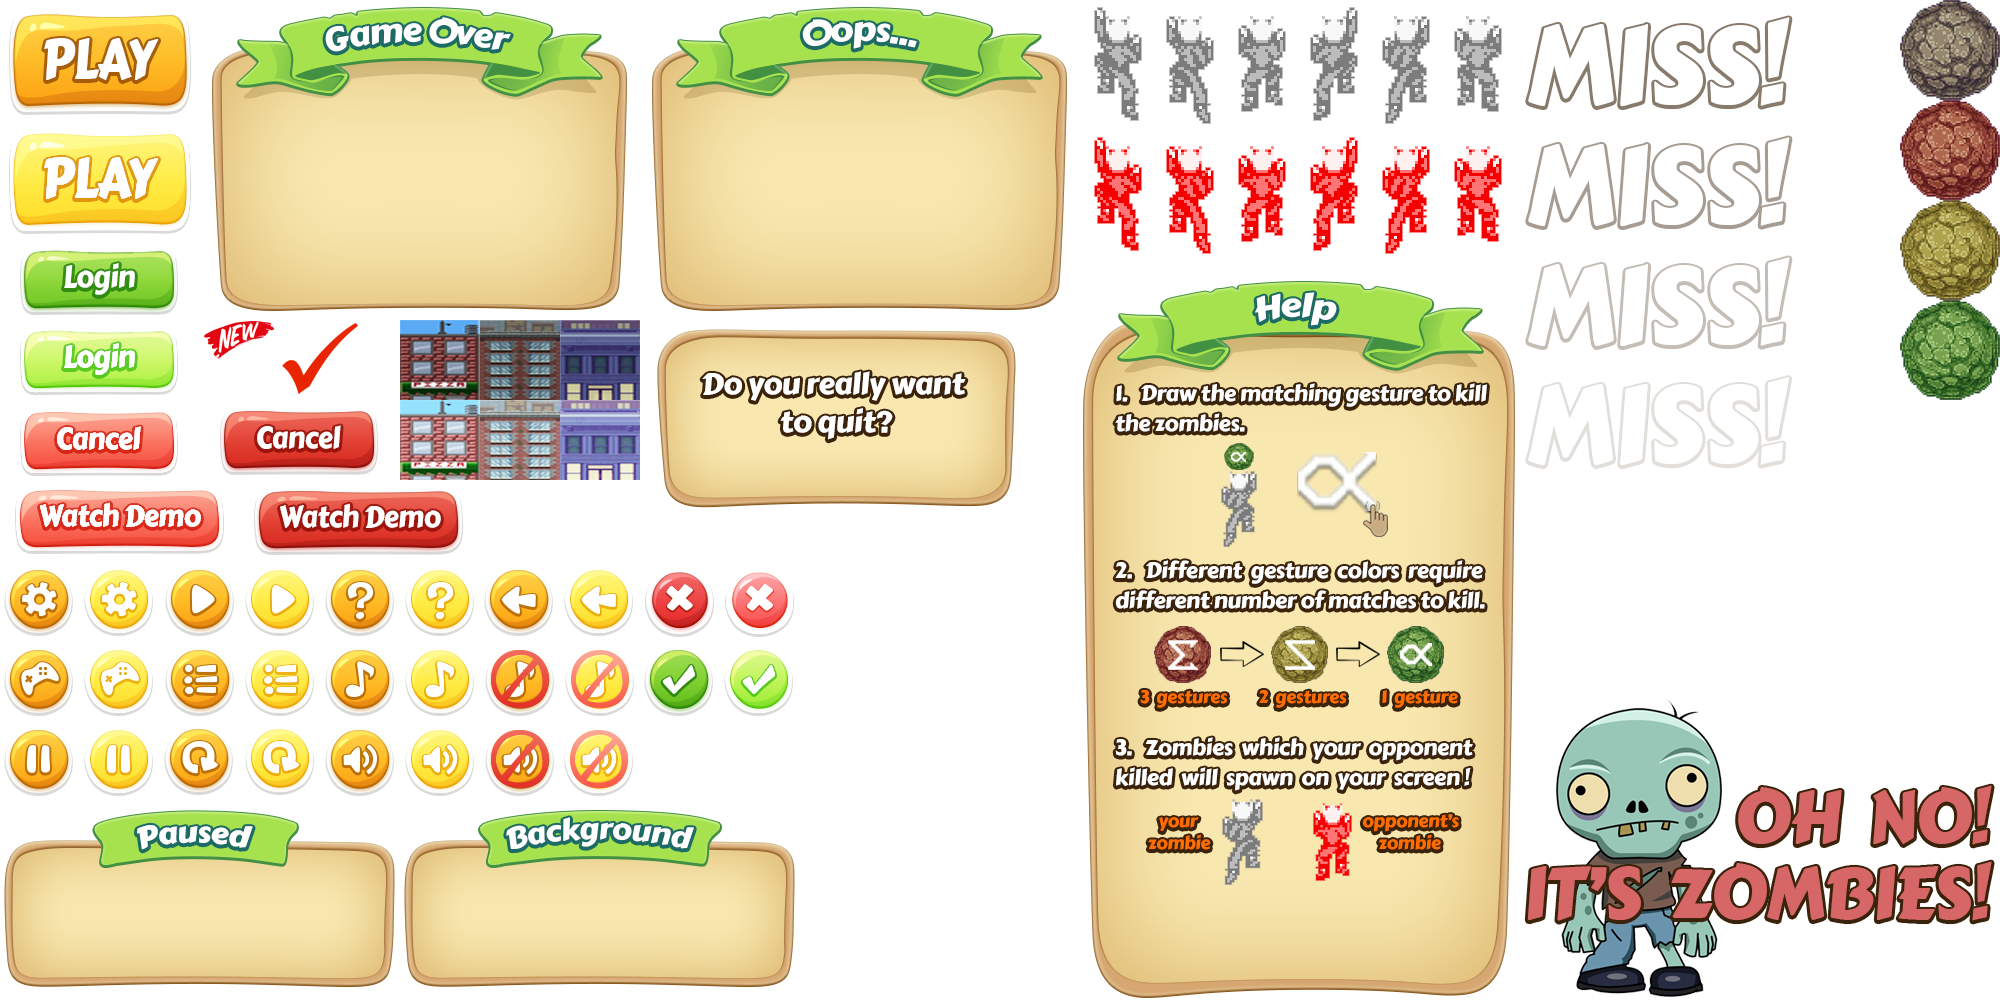
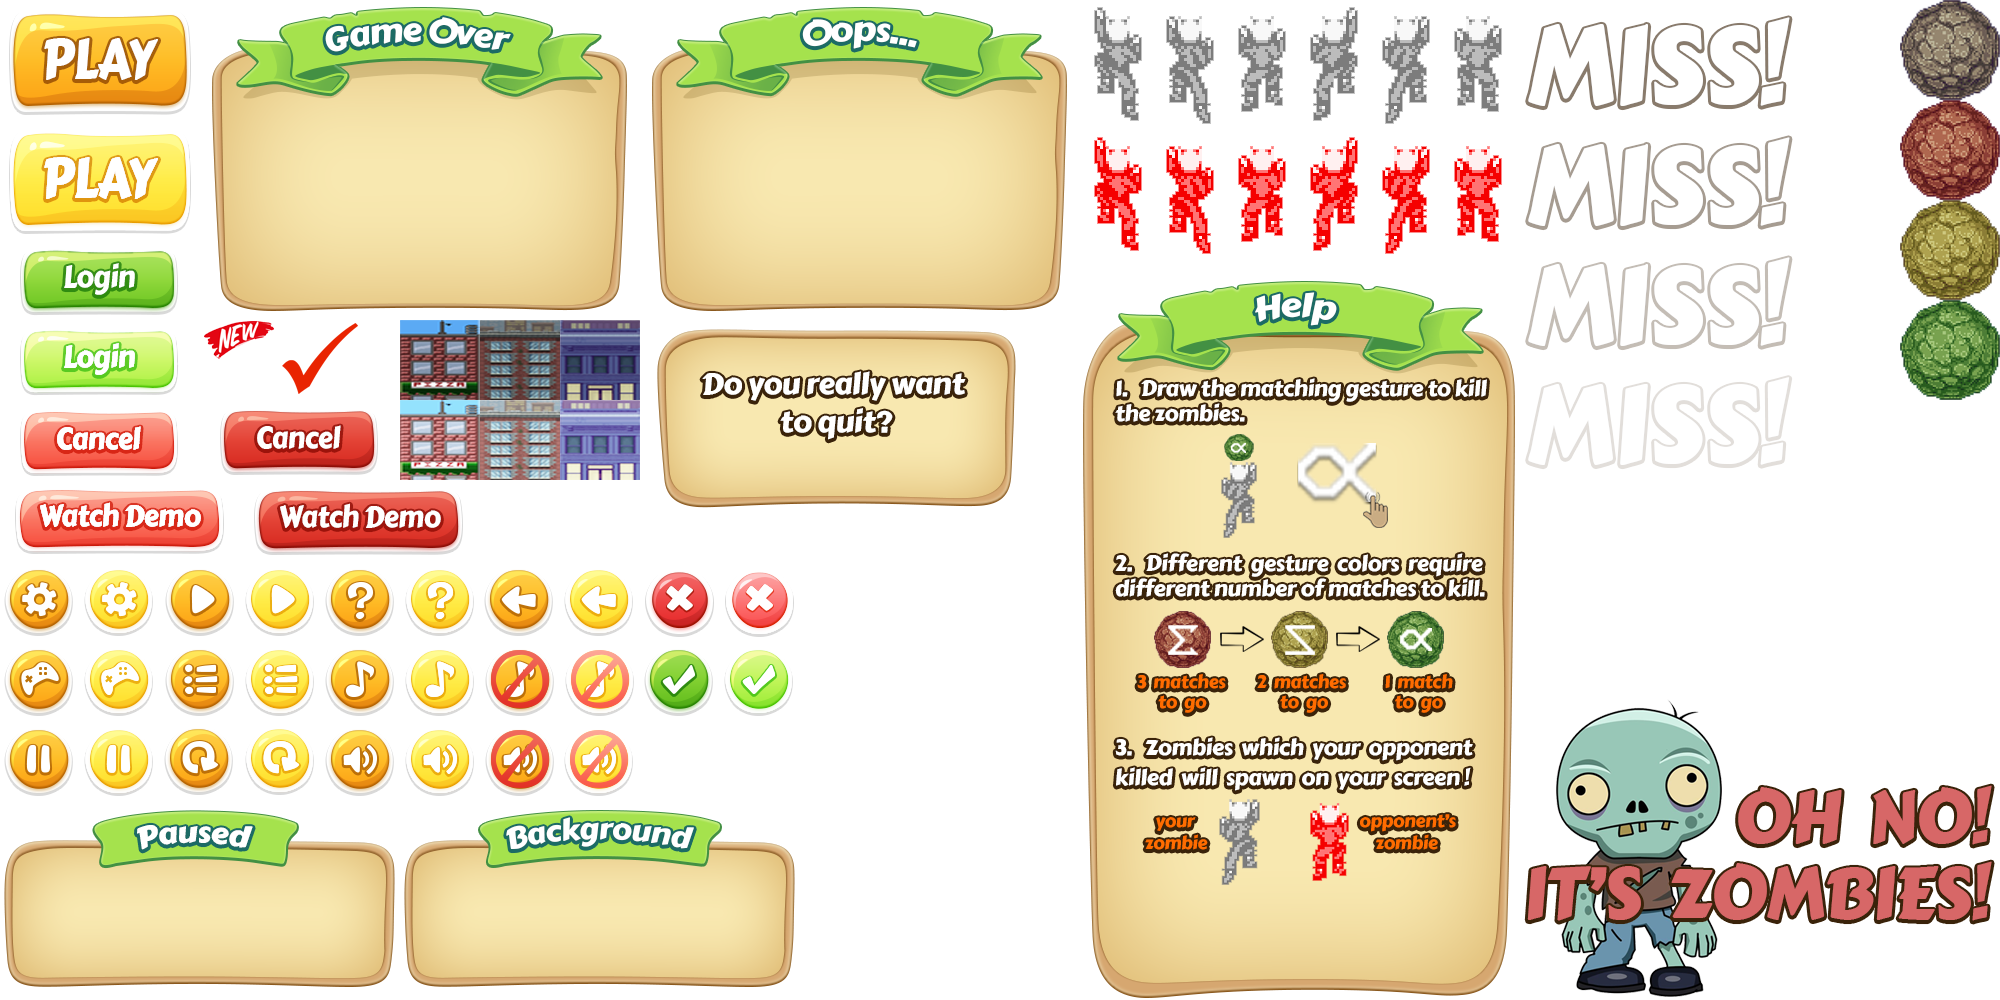
fix background options and update tutorial

Changed region(s): [[0.558, 0.372, 0.744, 0.713], [0.558, 0.806, 0.744, 0.899]]

diff --git a/core/src/com/oniz/Screens/StartScreen.java b/core/src/com/oniz/Screens/StartScreen.java
@@ -221,7 +221,7 @@ public class StartScreen implements LoginListener, Screen {
         background1Btn.addListener(new AdvancedClickListener() {
             @Override
             public void clicked(InputEvent event, float x, float y) {
-                zGame.getGameWorld().setBackgroundOption(GameWorld.BACKGROUND1);
+                AssetLoader.setBackgroundOption(AssetLoader.BACKGROUND1);
             }
         });
 
@@ -229,7 +229,7 @@ public class StartScreen implements LoginListener, Screen {
         background2Btn.addListener(new AdvancedClickListener() {
             @Override
             public void clicked(InputEvent event, float x, float y) {
-                zGame.getGameWorld().setBackgroundOption(GameWorld.BACKGROUND2);
+                AssetLoader.setBackgroundOption(AssetLoader.BACKGROUND2);
             }
         });
 
@@ -237,7 +237,7 @@ public class StartScreen implements LoginListener, Screen {
         background3Btn.addListener(new AdvancedClickListener() {
             @Override
             public void clicked(InputEvent event, float x, float y) {
-                zGame.getGameWorld().setBackgroundOption(GameWorld.BACKGROUND3);
+                AssetLoader.setBackgroundOption(AssetLoader.BACKGROUND3);
             }
         });
 
@@ -341,11 +341,11 @@ public class StartScreen implements LoginListener, Screen {
 
         batcher.begin();
         if (backgroundMenuToggle) {
-            if (zGame.getGameWorld().getBackgroundOption() == GameWorld.BACKGROUND1) {
+            if (AssetLoader.getBackgroundOption() == AssetLoader.BACKGROUND1) {
                 batcher.draw(checkMark, 75, 440, 40, 40);
-            } else if (zGame.getGameWorld().getBackgroundOption() == GameWorld.BACKGROUND2) {
+            } else if (AssetLoader.getBackgroundOption() == AssetLoader.BACKGROUND2) {
                 batcher.draw(checkMark, 175, 440, 40, 40);
-            } else if (zGame.getGameWorld().getBackgroundOption() == GameWorld.BACKGROUND3) {
+            } else if (AssetLoader.getBackgroundOption() == AssetLoader.BACKGROUND3) {
                 batcher.draw(checkMark, 275, 440, 40, 40);
             }
         }

diff --git a/core/src/com/oniz/Screens/MatchMakingScreen.java b/core/src/com/oniz/Screens/MatchMakingScreen.java
@@ -29,7 +29,7 @@ public class MatchMakingScreen implements Screen, PlayEventListener {
 
     private SimpleButton cancelBtn;
 
-    private float runTime;
+    private float runTime = 0;
     private TextureRegion background, backgroundTint;
     private BitmapFont menuFont;
     private Animation spinnerAnimation;
@@ -43,7 +43,7 @@ public class MatchMakingScreen implements Screen, PlayEventListener {
         this.zgame = zgame;
         this.stage = new Stage(new FitViewport(450, 800));
 
-        background = AssetLoader.getInstance().backgrounds[GameWorld.BACKGROUND1];
+        background = AssetLoader.getInstance().backgrounds[AssetLoader.getBackgroundOption()];
         backgroundTint = AssetLoader.getInstance().sprites.get("backgroundTint");
         menuFont = AssetLoader.getInstance().fonts.get("menuText");
         spinnerAnimation = AssetLoader.getInstance().spinnerAnimation;
@@ -69,10 +69,6 @@ public class MatchMakingScreen implements Screen, PlayEventListener {
 
     }
 
-    public void setBackground(int backgroundOption) {
-        this.background = AssetLoader.getInstance().backgrounds[backgroundOption];
-    }
-
     //cancel matchmaking process
     private void cancelMatchmaking() {
         zgame.playServices.leaveGame();
@@ -88,6 +84,9 @@ public class MatchMakingScreen implements Screen, PlayEventListener {
 
     @Override
     public void render(float delta) {
+        if (runTime == 0) {
+            background = AssetLoader.getInstance().backgrounds[AssetLoader.getBackgroundOption()];
+        }
         runTime += delta;
         Gdx.graphics.getGL20().glClearColor(0, 0, 0, 1);
         Gdx.graphics.getGL20().glClear(GL20.GL_COLOR_BUFFER_BIT | GL20.GL_DEPTH_BUFFER_BIT);
@@ -122,6 +121,7 @@ public class MatchMakingScreen implements Screen, PlayEventListener {
     @Override
     public void leftRoom() {
         Gdx.app.log("Left room", "Match making screen left room");
+        runTime = 0;
         zgame.switchScreen(ZGame.ScreenState.START);
     }
 

diff --git a/core/src/com/oniz/Game/GameWorld.java b/core/src/com/oniz/Game/GameWorld.java
@@ -18,9 +18,6 @@ import java.util.concurrent.atomic.AtomicBoolean;
  * It updates everything.
  */
 public class GameWorld implements PlayEventListener {
-    public static final int BACKGROUND1 = 0;
-    public static final int BACKGROUND2 = 1;
-    public static final int BACKGROUND3 = 2;
 
     public static final int GAME_READY = 0;
     public static final int GAME_RUNNING = 1;
@@ -32,7 +29,6 @@ public class GameWorld implements PlayEventListener {
     static final int[] zombiePaths = {40, 78, 115, 153, 190, 228, 265, 303, 340};
     private int state;
     private int score = 0;
-    private int backgroundOption = BACKGROUND1;
 
     GameRenderer gameRenderer;
     Random random = new Random();
@@ -226,6 +222,7 @@ public class GameWorld implements PlayEventListener {
         childZombies.clear();
         score = 0;
         state = GAME_RUNNING;
+        gameRenderer.setBackground(AssetLoader.getBackgroundOption());
         this.isMultiPlayerQuitted = false;
         gameRenderer.prepareTransition(0, 0, 0, 1f);
     }
@@ -275,16 +272,6 @@ public class GameWorld implements PlayEventListener {
 
     public int getScore() {
         return score;
-    }
-
-    public int getBackgroundOption() {
-        return backgroundOption;
-    }
-
-    public void setBackgroundOption(int backgroundOption) {
-        this.backgroundOption = backgroundOption;
-        gameRenderer.setBackground(backgroundOption);
-        zgame.getMatchMakingScreen().setBackground(backgroundOption);
     }
 
     public void realTimeUpdate(String msg) {

diff --git a/core/src/com/oniz/Game/AssetLoader.java b/core/src/com/oniz/Game/AssetLoader.java
@@ -56,6 +56,9 @@ public final class AssetLoader {
     public Hashtable<String, FileHandle> gesturesList;
     public ProtractorGestureRecognizer protractorGestureRecognizer;
 
+    public static final int BACKGROUND1 = 0;
+    public static final int BACKGROUND2 = 1;
+    public static final int BACKGROUND3 = 2;
 
     public static AssetLoader getInstance() {
         if (instance == null) {
@@ -173,9 +176,14 @@ public final class AssetLoader {
 
     public void load() {
         loadGestureJSON();
+
         // store high score
         if (!prefs.contains("highScore")) {
             prefs.putInteger("highScore", 0);
+        }
+        // store background option
+        if (!prefs.contains("backgroundOption")) {
+            prefs.putInteger("backgroundOption", 0);
         }
 
         // splash screen logo
@@ -422,6 +430,15 @@ public final class AssetLoader {
     // Retrieves the current high score
     public static int getHighScore() {
         return prefs.getInteger("highScore");
+    }
+
+    public static void setBackgroundOption(int option) {
+        prefs.putInteger("backgroundOption", option);
+        prefs.flush();
+    }
+
+    public static int getBackgroundOption() {
+        return prefs.getInteger("backgroundOption");
     }
 
     public void dispose() {

diff --git a/core/src/com/oniz/Game/GameRenderer.java b/core/src/com/oniz/Game/GameRenderer.java
@@ -128,7 +128,7 @@ public class GameRenderer {
     }
 
     private void initAssets() {
-        background = AssetLoader.getInstance().backgrounds[GameWorld.BACKGROUND1];
+        background = AssetLoader.getInstance().backgrounds[AssetLoader.getBackgroundOption()];
         backgroundTint = AssetLoader.getInstance().sprites.get("backgroundTint");
         zombieClimbingAnimation = AssetLoader.getInstance().zombieClimbingAnimation;
         enemyZombieClimbingAnimation = AssetLoader.getInstance().enemyZombieClimbingAnimation;
